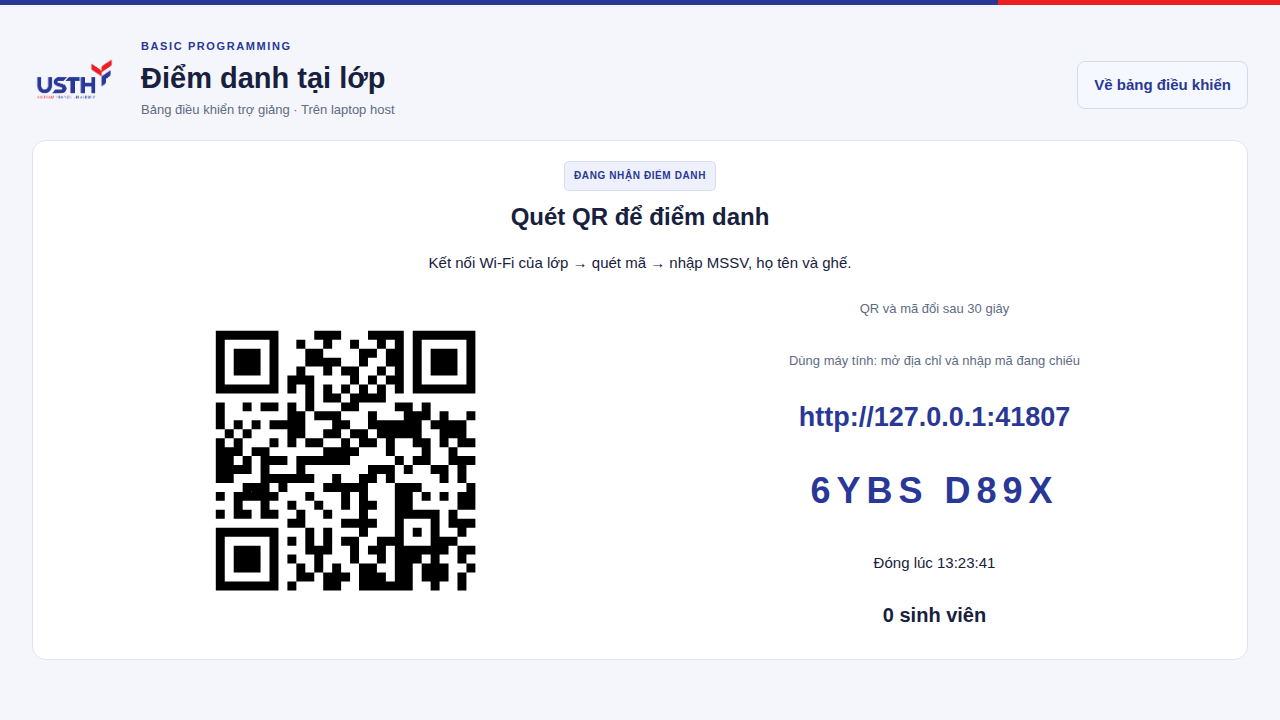
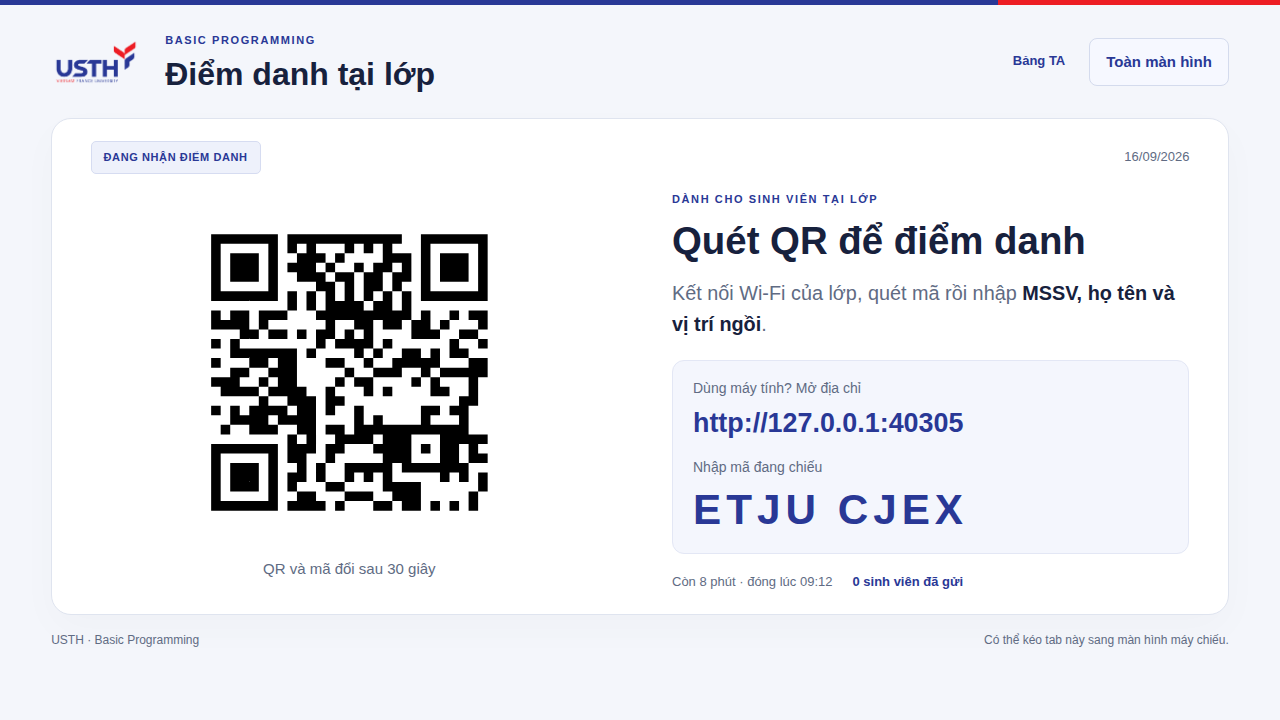
Open attendance QR in an independent fullscreen projection tab

diff --git a/web/lan-public/style.css b/web/lan-public/style.css
@@ -1,5 +1,4 @@
-:root{--blue:#293896;--red:#ed1d24;--ink:#17213d;--muted:#606b83;--line:#dfe4ef;--paper:#f4f6fb}*{box-sizing:border-box}[hidden]{display:none!important}body{margin:0;background:var(--paper);color:var(--ink);font:15px/1.6 -apple-system,BlinkMacSystemFont,"Segoe UI",sans-serif}body:before{content:"";display:block;height:5px;background:linear-gradient(90deg,var(--blue) 0 78%,var(--red) 78%)}main{max-width:1280px;margin:auto;padding:28px 32px}header{display:flex;align-items:center;gap:24px;margin-bottom:26px}header img{width:110px;height:auto}header h1{margin:3px 0;line-height:1.25;font-size:29px}header p{margin:4px 0}header button{margin-left:auto}.eyebrow{color:var(--blue);font-size:11px;font-weight:750;letter-spacing:1.6px}h2{font-size:24px;line-height:1.35;margin:14px 0}p{margin:12px 0}.card{background:white;border:1px solid var(--line);border-radius:14px;padding:26px;margin-bottom:20px}.muted,small,footer{color:var(--muted);font-size:13px}footer{text-align:center;margin:26px 0}.badge{display:inline-block;font-size:10px;font-weight:750;letter-spacing:.6px;border:1px solid #d6dcf1;color:var(--blue);background:#eef1fb;border-radius:5px;padding:6px 9px}.layout{display:grid;grid-template-columns:320px minmax(0,1fr);gap:24px}.section-top,.status-bar,.actions{display:flex;gap:16px;align-items:center;justify-content:space-between;flex-wrap:wrap}.section-top h2{margin-bottom:0}label{display:block;font-weight:600;margin:18px 0 6px}input,select,textarea{font:inherit;width:100%;border:1px solid #bac4db;border-radius:8px;background:white;color:var(--ink);padding:11px 12px}input:focus,select:focus,textarea:focus{outline:3px solid #dce2ff;border-color:var(--blue)}small{display:block;margin-top:7px}button{font:inherit;font-weight:650;border:1px solid var(--blue);border-radius:8px;padding:11px 16px;background:var(--blue);color:white;cursor:pointer;margin:12px 0 0}button:hover{filter:brightness(.94)}button:disabled{opacity:.5;cursor:default}button.secondary{color:var(--blue);background:#f6f8ff;border-color:#d4dbed}button.danger{background:white;border-color:#ecc1c5;color:#ab1422}.layout .controls button{width:100%}a{color:var(--blue);font-weight:600}.actions button{margin:0}.notice{background:#edf1fc;color:var(--blue);padding:12px 16px;border-radius:8px;margin-bottom:16px}.notice:empty{display:none}.error{color:#a81820;background:#fff0f1}.student-page{max-width:610px}.student-page .card{padding:28px}.student-page #submit{width:100%;margin-top:24px}.student-page #reload{width:100%}.student-page header{gap:18px}.student-page header img{width:94px}.student-page h1{font-size:25px}.receipt{border-left:4px solid var(--blue);padding:4px 0 4px 20px}.receipt dl{display:grid;grid-template-columns:100px 1fr;gap:10px}.receipt dt{color:var(--muted)}.receipt dd{margin:0;font-weight:650;overflow-wrap:anywhere}.projector{text-align:center}.projector #qr{max-width:270px;margin:18px auto}.projector svg{display:block;width:100%;height:auto}.student-url{font-size:24px;color:var(--blue);word-break:break-all}.count{display:block;font-size:20px}.table-wrap{overflow:auto}table{width:100%;border-collapse:collapse;text-align:left;font-size:14px}th{font-size:12px;color:var(--muted);background:#f6f8fc;white-space:nowrap}th,td{padding:14px 12px;border-bottom:1px solid var(--line)}td{white-space:pre-line}td button{margin:0;font-size:12px;white-space:nowrap}tr.flagged td{background:#ffcccc;color:#871621}.checkbox{display:flex;align-items:center;font-weight:500;gap:8px}.checkbox input{width:auto}details summary{font-weight:650;cursor:pointer}hr{border:0;border-top:1px solid var(--line);margin:24px 0}dialog{width:min(540px,94vw);border:1px solid var(--line);border-radius:14px;padding:26px;color:var(--ink)}dialog::backdrop{background:#17213d80}.projecting .controls,.projecting footer,.projecting #notice{display:none}.projecting .layout{display:block}.projecting .projector{padding:20px 32px}.projecting .projector #qr{max-width:min(41vh,380px)}.projecting .student-url{font-size:32px}.projecting header{margin-bottom:15px}.projecting header img{width:85px}.projecting h2{margin:10px 0}.projecting .projector p{margin:8px 0}@media(max-width:750px){main{padding:22px 16px}.layout{display:block}header{gap:14px}header img{width:80px}header h1{font-size:23px}.card{padding:20px}.student-page .card{padding:23px}.student-page header img{width:78px}.student-page h1{font-size:22px}.student-url{font-size:20px}.projecting .student-url{font-size:22px}.actions{justify-content:flex-start;gap:12px}.actions a{font-size:13px}}
+:root{--blue:#293896;--red:#ed1d24;--ink:#17213d;--muted:#606b83;--line:#dfe4ef;--paper:#f4f6fb}*{box-sizing:border-box}[hidden]{display:none!important}body{margin:0;background:var(--paper);color:var(--ink);font:15px/1.6 -apple-system,BlinkMacSystemFont,"Segoe UI",sans-serif}body:before{content:"";display:block;height:5px;background:linear-gradient(90deg,var(--blue) 0 78%,var(--red) 78%)}main{max-width:1280px;margin:auto;padding:28px 32px}header{display:flex;align-items:center;gap:24px;margin-bottom:26px}header img{width:110px;height:auto}header h1{margin:3px 0;line-height:1.25;font-size:29px}header p{margin:4px 0}header button{margin-left:auto}.eyebrow{color:var(--blue);font-size:11px;font-weight:750;letter-spacing:1.6px}h2{font-size:24px;line-height:1.35;margin:14px 0}p{margin:12px 0}.card{background:white;border:1px solid var(--line);border-radius:14px;padding:26px;margin-bottom:20px}.muted,small,footer{color:var(--muted);font-size:13px}footer{text-align:center;margin:26px 0}.badge{display:inline-block;font-size:10px;font-weight:750;letter-spacing:.6px;border:1px solid #d6dcf1;color:var(--blue);background:#eef1fb;border-radius:5px;padding:6px 9px}.layout{display:grid;grid-template-columns:320px minmax(0,1fr);gap:24px}.section-top,.status-bar,.actions{display:flex;gap:16px;align-items:center;justify-content:space-between;flex-wrap:wrap}.section-top h2{margin-bottom:0}label{display:block;font-weight:600;margin:18px 0 6px}input,select,textarea{font:inherit;width:100%;border:1px solid #bac4db;border-radius:8px;background:white;color:var(--ink);padding:11px 12px}input:focus,select:focus,textarea:focus{outline:3px solid #dce2ff;border-color:var(--blue)}small{display:block;margin-top:7px}button{font:inherit;font-weight:650;border:1px solid var(--blue);border-radius:8px;padding:11px 16px;background:var(--blue);color:white;cursor:pointer;margin:12px 0 0}button:hover{filter:brightness(.94)}button:disabled{opacity:.5;cursor:default}button.secondary{color:var(--blue);background:#f6f8ff;border-color:#d4dbed}button.danger{background:white;border-color:#ecc1c5;color:#ab1422}.layout .controls button{width:100%}a{color:var(--blue);font-weight:600}.actions button{margin:0}.notice{background:#edf1fc;color:var(--blue);padding:12px 16px;border-radius:8px;margin-bottom:16px}.notice:empty{display:none}.error{color:#a81820;background:#fff0f1}.student-page{max-width:610px}.student-page .card{padding:28px}.student-page #submit{width:100%;margin-top:24px}.student-page #reload{width:100%}.student-page header{gap:18px}.student-page header img{width:94px}.student-page h1{font-size:25px}.receipt{border-left:4px solid var(--blue);padding:4px 0 4px 20px}.receipt dl{display:grid;grid-template-columns:100px 1fr;gap:10px}.receipt dt{color:var(--muted)}.receipt dd{margin:0;font-weight:650;overflow-wrap:anywhere}.projector{text-align:center}.projector #qr{max-width:270px;margin:18px auto}.projector svg{display:block;width:100%;height:auto}.student-url{font-size:24px;color:var(--blue);word-break:break-all}.count{display:block;font-size:20px}.table-wrap{overflow:auto}table{width:100%;border-collapse:collapse;text-align:left;font-size:14px}th{font-size:12px;color:var(--muted);background:#f6f8fc;white-space:nowrap}th,td{padding:14px 12px;border-bottom:1px solid var(--line)}td{white-space:pre-line}td button{margin:0;font-size:12px;white-space:nowrap}tr.flagged td{background:#ffcccc;color:#871621}.checkbox{display:flex;align-items:center;font-weight:500;gap:8px}.checkbox input{width:auto}details summary{font-weight:650;cursor:pointer}hr{border:0;border-top:1px solid var(--line);margin:24px 0}dialog{width:min(540px,94vw);border:1px solid var(--line);border-radius:14px;padding:26px;color:var(--ink)}dialog::backdrop{background:#17213d80}@media(max-width:750px){main{padding:22px 16px}.layout{display:block}header{gap:14px}header img{width:80px}header h1{font-size:23px}.card{padding:20px}.student-page .card{padding:23px}.student-page header img{width:78px}.student-page h1{font-size:22px}.student-url{font-size:20px}.actions{justify-content:flex-start;gap:12px}.actions a{font-size:13px}}
 .screen-nav{display:flex;gap:8px;margin:0 0 20px;flex-wrap:wrap}.screen-nav a{text-decoration:none;border:1px solid var(--line);border-radius:8px;background:white;padding:10px 16px}.screen-nav a[aria-current="page"]{color:white;background:var(--blue);border-color:var(--blue)}.filters{display:flex;gap:18px;align-items:flex-end;flex-wrap:wrap;margin:20px 0}.filters>div:first-child{min-width:210px}.filters label{margin-top:0}.button-link{display:inline-block;border:1px solid var(--blue);border-radius:8px;padding:10px 15px;text-decoration:none;background:var(--blue);color:white}.button-link.secondary{color:var(--blue);background:#f6f8ff;border-color:#d4dbed}.button-link[aria-disabled="true"]{opacity:.5;pointer-events:none}.review-totals{display:flex;gap:12px;flex-wrap:wrap;margin:22px 0}.rejected-badge{color:#a81820;background:#fff0f1;border-color:#ecc1c5}tr.rejected td{color:#8b1420;background:#fff0f1}tr.rejected td:first-child{border-left:3px solid var(--red)}#screen-history td:nth-child(6),#screen-issues td:nth-child(6){min-width:190px;max-width:310px;overflow-wrap:anywhere}.screen-nav a:focus-visible,.button-link:focus-visible{outline:3px solid #98a6ed;outline-offset:3px}@media(max-width:750px){.screen-nav{gap:6px}.screen-nav a{padding:9px 11px;font-size:13px}.filters>div{width:100%}.filters .actions{align-items:stretch}.button-link{font-size:13px}}
 
-.attendance-code{display:block;font-size:32px;letter-spacing:6px;color:var(--blue);font-variant-numeric:tabular-nums;margin:8px auto}.projecting .attendance-code{font-size:36px}#room-code{font-size:23px;letter-spacing:4px;text-transform:uppercase}#scan-form button{width:100%}.network-option{display:block;width:100%;text-align:left}.network-option small{color:inherit}
-@media(min-width:751px){.projecting .projector{display:grid;grid-template-columns:minmax(280px,1fr) minmax(330px,1fr);column-gap:28px;align-items:center}.projecting .projector>.badge,.projecting .projector>h2,.projecting .projector>p:first-of-type{grid-column:1/-1;justify-self:center}.projecting .projector #qr{grid-column:1;grid-row:4/10;width:100%;max-width:min(46vh,420px);margin:12px auto}.projecting #qr-countdown{grid-area:4/2}.projecting .projector>p:nth-of-type(3){grid-area:5/2}.projecting #student-url{grid-area:6/2;font-size:27px}.projecting #attendance-code{grid-area:7/2}.projecting #session-end{grid-area:8/2}.projecting #count{grid-area:9/2}}
+.attendance-code{display:block;font-size:32px;letter-spacing:6px;color:var(--blue);font-variant-numeric:tabular-nums;margin:8px auto}#room-code{font-size:23px;letter-spacing:4px;text-transform:uppercase}#scan-form button{width:100%}.network-option{display:block;width:100%;text-align:left}.network-option small{color:inherit}

diff --git a/web/lan-public/admin.js b/web/lan-public/admin.js
@@ -2,6 +2,7 @@
 const $=id=>document.getElementById(id);
 let dashboard,selected='',entries=[],reviewing,busy=false,refreshQueued=false,loadedURL='',screen='attendance';
 let currentQr,qrBusy=false,qrAt=0;
+let projectorWindow;
 function drawQr(){
   const remaining=currentQr?currentQr.expiresAt-currentQr.serverTime-(performance.now()-qrAt):0;
   if(remaining<=0){$('qr').replaceChildren();$('attendance-code').textContent='';$('qr-countdown').textContent=currentQr?'Đang đổi QR…':'';loadedURL='';return;}
@@ -25,9 +26,15 @@ function showScreen(){
   const next=location.hash.slice(1);screen=['attendance','history','issues'].includes(next)?next:'attendance';
   for(const panel of document.querySelectorAll('[data-screen]'))panel.hidden=panel.dataset.screen!==screen;
   for(const link of document.querySelectorAll('.screen-nav a')){if(link.hash==='#'+screen)link.setAttribute('aria-current','page');else link.removeAttribute('aria-current');}
-  if(screen!=='attendance'){document.body.classList.remove('projecting');$('exit-project').hidden=true;}
 }
-function project(){location.hash='attendance';showScreen();document.body.classList.add('projecting');$('exit-project').hidden=false;window.scrollTo(0,0);}
+function project(){
+  if(projectorWindow&&!projectorWindow.closed){projectorWindow.focus();return true;}
+  projectorWindow=window.open('/projector/','bp-attendance-projector');
+  if(projectorWindow){projectorWindow.focus();return true;}
+  notice('Trình duyệt đang chặn tab mới.');
+  const link=document.createElement('a');link.href='/projector/';link.target='_blank';link.rel='noopener';link.textContent='Mở tab chiếu QR';$('notice').append(' ',link);
+  return false;
+}
 function openReview(entry){
   reviewing=entry;$('review-title').textContent=entry.student_id+' · '+entry.name;
   $('review-detail').textContent=entry.date+' · Ghế: '+entry.seat+' · IP: '+entry.ip+' · '+entry.peers+' MSSV';
@@ -97,9 +104,14 @@ async function refresh(){
 }
 async function action(fn){if(busy)return;busy=true;try{await fn();await refresh();}catch(error){notice(error.message,true);}finally{busy=false;if(refreshQueued){refreshQueued=false;requestRefresh();}}}
 function requestRefresh(){markLoading();if(busy){refreshQueued=true;return;}void action(async()=>{});}
-$('open').addEventListener('click',()=>action(async()=>{const result=await api('/api/sessions',{minutes:Number($('minutes').value)});selected=result.session.id;await refresh();notice('Đã mở điểm danh.');project();}));
+$('open').addEventListener('click',()=>{
+  if(busy)return;
+  // Open during the click gesture, before any await, so browsers allow the tab.
+  const opened=project();
+  void action(async()=>{const result=await api('/api/sessions',{minutes:Number($('minutes').value)});selected=result.session.id;if(opened)notice('Đã mở điểm danh. Tab chiếu QR cập nhật tự động.');});
+});
 $('close').addEventListener('click',()=>action(async()=>{await api('/api/sessions/'+selected+'/close',{});notice('Đã đóng phiên điểm danh.');}));
-$('project').addEventListener('click',project);$('exit-project').addEventListener('click',()=>{document.body.classList.remove('projecting');$('exit-project').hidden=true;});
+$('project').addEventListener('click',project);
 $('session').addEventListener('change',()=>{selected=$('session').value;requestRefresh();});$('only-pending').addEventListener('change',renderEntries);
 for(const id of ['history-date','issues-date','issues-status'])$(id).addEventListener('change',requestRefresh);
 window.addEventListener('hashchange',()=>{showScreen();requestRefresh();});

diff --git a/web/projector/style.css b/web/projector/style.css
@@ -1,0 +1,32 @@
+.projection-page{min-height:100vh;background:var(--paper)}
+.projection-page main{max-width:1600px;padding:clamp(16px,3vh,36px) clamp(24px,4vw,64px)}
+.projection-page header{margin-bottom:clamp(16px,3vh,30px)}
+.projection-page header img{width:90px}
+.projection-page header h1{font-size:clamp(24px,2.5vw,36px)}
+.projection-actions{margin-left:auto;display:flex;align-items:center;gap:24px}
+.projection-actions button{margin:0;white-space:nowrap}
+.projection-actions a{font-size:13px;text-decoration:none}
+.projection-card{background:#fff;border:1px solid var(--line);border-radius:20px;padding:clamp(20px,3vh,38px) clamp(20px,3vw,44px);box-shadow:0 14px 40px #17213d06}
+.projection-heading{display:flex;justify-content:space-between;gap:16px;align-items:center;margin-bottom:12px}
+.projection-heading .badge{font-size:11px;padding:7px 12px}
+.projection-content{display:grid;grid-template-columns:minmax(0,1fr) minmax(0,1fr);align-items:center;gap:clamp(24px,5vw,80px)}
+.qr-column{text-align:center;min-width:0}
+.qr-stage{width:min(100%,49vh,500px);aspect-ratio:1;margin:auto;display:grid;align-items:center;justify-items:center;background:white}
+#qr{width:100%;grid-area:1/1}
+#qr svg{width:100%;height:auto;display:block}
+#qr-placeholder{grid-area:1/1;margin:0;padding:28px;font-size:24px;color:var(--muted)}
+#qr-countdown{min-height:26px;font-size:15px;color:var(--muted);margin:8px 0 0;font-variant-numeric:tabular-nums}
+.projection-instructions{min-width:0}
+.projection-instructions h2{font-size:clamp(26px,3vw,44px);margin:8px 0 14px;line-height:1.2}
+.scan-instructions{font-size:clamp(16px,1.55vw,22px);color:var(--muted);line-height:1.55;margin:0 0 20px}
+.scan-instructions strong{color:var(--ink);font-weight:600}
+.manual-entry{padding:16px 20px;background:#f4f6fd;border:1px solid #e3e7f5;border-radius:12px}
+.manual-entry p{font-size:14px;color:var(--muted);margin:0 0 6px}
+.manual-entry .student-url{display:block;font-size:clamp(19px,2.1vw,30px);line-height:1.35;margin:0 0 14px;overflow-wrap:anywhere;word-break:normal}
+.manual-entry .attendance-code{font-size:clamp(30px,3.3vw,48px);line-height:1.25;letter-spacing:5px;margin:0;min-height:1.25em;white-space:nowrap}
+.session-meta{display:flex;flex-wrap:wrap;gap:6px 20px;font-size:13px;margin-top:18px;color:var(--muted)}
+.session-meta strong{color:var(--blue)}
+.projection-page footer{display:flex;justify-content:space-between;gap:12px;margin:16px 0 0;font-size:12px;text-align:left}
+.projection-page:fullscreen{overflow:auto}
+@media(min-width:851px) and (max-height:700px){.projection-page main{padding:14px 32px}.projection-page header{margin-bottom:14px}.projection-page header img{width:72px}.projection-card{padding:16px 24px}.projection-instructions h2{font-size:30px}.scan-instructions{font-size:16px;margin-bottom:12px}.manual-entry{padding:12px 16px}.manual-entry .attendance-code{font-size:34px}.manual-entry .student-url{font-size:23px;margin-bottom:8px}.session-meta{margin-top:10px}}
+@media(max-width:850px){.projection-page main{padding:18px}.projection-page header{flex-wrap:wrap;gap:14px}.projection-page header img{width:72px}.projection-actions{width:100%;justify-content:flex-end;gap:20px}.projection-content{grid-template-columns:1fr;gap:22px}.qr-stage{width:min(100%,360px)}.projection-instructions h2{font-size:30px}.projection-page footer{flex-direction:column}.manual-entry .attendance-code{font-size:36px}}

diff --git a/web/projector/projector.js b/web/projector/projector.js
@@ -1,0 +1,46 @@
+'use strict';
+const $=id=>document.getElementById(id);
+let state,requestedAt=0,busy=false,loadedURL='',unavailable=false;
+function draw(){
+  const at=state?state.serverTime+performance.now()-requestedAt:0;
+  const session=state?.session,open=session?.open&&session.endsAt>at;
+  const qr=state?.qr,valid=!unavailable&&open&&qr&&qr.expiresAt>at;
+  $('session-state').textContent=unavailable?'MẤT KẾT NỐI':!state?'ĐANG KẾT NỐI':open?'ĐANG NHẬN ĐIỂM DANH':session?'PHIÊN ĐÃ ĐÓNG':'CHƯA MỞ PHIÊN';
+  $('session-date').textContent=session?session.date.split('-').reverse().join('/') : '';
+  $('student-url').textContent=state?.url||'';
+  $('count').textContent=session?session.count+' sinh viên đã gửi':'';
+  $('session-end').textContent=open?'Còn '+Math.ceil((session.endsAt-at)/60000)+' phút · đóng lúc '+new Date(session.endsAt).toLocaleTimeString('vi-VN',{timeZone:'Asia/Ho_Chi_Minh',hour:'2-digit',minute:'2-digit'}):'';
+  $('qr-placeholder').hidden=!!valid;
+  if(!valid){
+    $('qr').replaceChildren();loadedURL='';$('attendance-code').textContent='';$('qr-countdown').textContent='';
+    $('qr-placeholder').textContent=unavailable?'Chưa kết nối được máy host. Đang thử lại…':!state?'Đang kết nối máy host…':open?'Đang đổi QR…':session?'Đã kết thúc điểm danh.':'Chờ TA mở phiên điểm danh.';
+    return;
+  }
+  if(loadedURL!==qr.url){const code=qrcode(0,'M');code.addData(qr.url);code.make();$('qr').innerHTML=code.createSvgTag({cellSize:8,margin:32,scalable:true});loadedURL=qr.url;}
+  $('attendance-code').textContent=qr.code.slice(0,4)+' '+qr.code.slice(4);
+  $('qr-countdown').textContent='QR và mã đổi sau '+Math.ceil((qr.expiresAt-at)/1000)+' giây';
+}
+async function refresh(){
+  if(busy)return;busy=true;
+  const started=performance.now();
+  try{
+    const response=await fetch('/api/projector',{cache:'no-store',signal:AbortSignal.timeout(4000)});
+    if(!response.ok)throw Error('PROJECTOR_UNAVAILABLE');
+    state=await response.json();requestedAt=started;unavailable=false;
+  }catch{unavailable=true;}
+  finally{busy=false;draw();}
+}
+function fullscreenState(){
+  $('fullscreen').textContent=document.fullscreenElement?'Thoát toàn màn hình':'Toàn màn hình';
+  $('fullscreen-hint').textContent=document.fullscreenElement?'Nhấn Esc để thoát toàn màn hình.':'Có thể kéo tab này sang màn hình máy chiếu.';
+}
+$('fullscreen').addEventListener('click',async()=>{
+  try{
+    if(document.fullscreenElement)await document.exitFullscreen();
+    else if(document.documentElement.requestFullscreen)await document.documentElement.requestFullscreen();
+    else throw Error('FULLSCREEN_UNAVAILABLE');
+  }catch{$('fullscreen-hint').textContent='Chọn toàn màn hình trong menu trình duyệt (F11 trên Windows/Linux).';}
+});
+document.addEventListener('fullscreenchange',fullscreenState);
+document.addEventListener('visibilitychange',()=>{draw();if(!document.hidden)void refresh();});
+draw();void refresh();setInterval(()=>void refresh(),1000);setInterval(draw,250);

diff --git a/web/projector/index.html b/web/projector/index.html
@@ -1,0 +1,34 @@
+<!doctype html>
+<html lang="vi">
+<head>
+  <meta charset="utf-8">
+  <meta name="viewport" content="width=device-width,initial-scale=1">
+  <title>Chiếu QR · Basic Programming · USTH</title>
+  <link rel="stylesheet" href="/style.css">
+  <link rel="stylesheet" href="/projector/style.css">
+  <script src="/qr.js" defer></script>
+  <script src="/projector/projector.js" defer></script>
+</head>
+<body class="projection-page">
+  <main>
+    <header>
+      <img src="/assets/usth-logo.png" alt="USTH — Vietnam France University">
+      <div><span class="eyebrow">BASIC PROGRAMMING</span><h1>Điểm danh tại lớp</h1></div>
+      <div class="projection-actions"><a href="/" target="_blank" rel="noopener">Bảng TA</a><button id="fullscreen" class="secondary" type="button">Toàn màn hình</button></div>
+    </header>
+    <section class="projection-card" aria-label="QR điểm danh">
+      <div class="projection-heading"><span id="session-state" class="badge">ĐANG KẾT NỐI</span><span id="session-date" class="muted"></span></div>
+      <div class="projection-content">
+        <div class="qr-column"><div class="qr-stage"><div id="qr"></div><p id="qr-placeholder" role="status">Đang kết nối máy host…</p></div><p id="qr-countdown" aria-live="off"></p></div>
+        <div class="projection-instructions">
+          <span class="eyebrow">DÀNH CHO SINH VIÊN TẠI LỚP</span><h2>Quét QR để điểm danh</h2>
+          <p class="scan-instructions">Kết nối Wi-Fi của lớp, quét mã rồi nhập <strong>MSSV, họ tên và vị trí ngồi</strong>.</p>
+          <div class="manual-entry"><p>Dùng máy tính? Mở địa chỉ</p><strong id="student-url" class="student-url"></strong><p>Nhập mã đang chiếu</p><strong id="attendance-code" class="attendance-code"></strong></div>
+          <div class="session-meta"><span id="session-end"></span><strong id="count"></strong></div>
+        </div>
+      </div>
+    </section>
+    <footer><span>USTH · Basic Programming</span><span id="fullscreen-hint" role="status">Có thể kéo tab này sang màn hình máy chiếu.</span></footer>
+  </main>
+</body>
+</html>

diff --git a/web/lan-public/admin.html b/web/lan-public/admin.html
@@ -1,5 +1,5 @@
 <!doctype html><html lang="vi"><head><meta charset="utf-8"><meta name="viewport" content="width=device-width,initial-scale=1"><title>TA · BP Attendance · USTH</title><link rel="stylesheet" href="/style.css"><script src="/qr.js" defer></script><script src="/admin.js" defer></script></head>
-<body><main><header><img src="/assets/usth-logo.png" alt="USTH — Vietnam France University"><div><span class="eyebrow">BASIC PROGRAMMING</span><h1>Điểm danh tại lớp</h1><p class="muted">Bảng điều khiển trợ giảng · Trên laptop host</p></div><button id="exit-project" class="secondary" hidden>Về bảng điều khiển</button></header>
+<body><main><header><img src="/assets/usth-logo.png" alt="USTH — Vietnam France University"><div><span class="eyebrow">BASIC PROGRAMMING</span><h1>Điểm danh tại lớp</h1><p class="muted">Bảng điều khiển trợ giảng · Trên laptop host</p></div></header>
 <div id="notice" role="status" aria-live="polite"></div>
 <nav class="screen-nav controls" aria-label="Quản lý điểm danh"><a href="#attendance" aria-current="page">Điểm danh tại lớp</a><a href="#history">Lịch sử &amp; xuất dữ liệu</a><a href="#issues">Cần xử lý</a></nav>
 <div class="controls card status-bar"><div><strong id="sync-state">Đang kết nối…</strong><p id="network" class="muted"></p></div><div class="actions"><button id="sync" class="secondary">Đồng bộ Sheet</button><a href="#history">Xuất dữ liệu theo ngày / toàn bộ</a></div></div>

diff --git a/docs/TA-GUIDE.vi.md b/docs/TA-GUIDE.vi.md
@@ -4,11 +4,13 @@
 
 Người host chạy `npm start` trên Windows, macOS hoặc Linux. App tự chuẩn bị dữ liệu và mở trình duyệt. Nếu hiện trang chọn mạng, bấm Wi-Fi đang dùng trong phòng. Trang TA tại **http://127.0.0.1:4181** chỉ mở trên laptop host. Giữ cửa sổ chạy app mở trong giờ học.
 
-Kiểm tra đúng ngày, thống nhất cách ghi ghế (ví dụ hàng B, ghế 12), chọn thời gian rồi bấm **Mở QR điểm danh**. Mặc định 8 phút. App chuyển sang màn chiếu, có QR và URL cho sinh viên dùng máy tính.
+Kiểm tra đúng ngày, thống nhất cách ghi ghế (ví dụ hàng B, ghế 12), chọn thời gian rồi bấm **Mở QR điểm danh**. Mặc định 8 phút. App mở **tab chiếu QR riêng**, giữ nguyên bảng TA để theo dõi và đối chiếu sinh viên. Nếu đã mở phiên, bấm **Chiếu QR** để quay lại tab chiếu hoặc mở lại tab đã đóng.
+
+Trên tab chiếu, bấm **Toàn màn hình** ở góc trên bên phải; nhấn **Esc** hoặc **Thoát toàn màn hình** để thoát. Có thể kéo tab sang màn hình máy chiếu nếu laptop dùng chế độ mở rộng màn hình. Nếu trình duyệt chặn tab mới, bấm liên kết **Mở tab chiếu QR** trên bảng TA. Nếu trình duyệt không cho bật toàn màn hình bằng nút, dùng menu trình duyệt hoặc F11 trên Windows/Linux.
 
 ![Màn chiếu](web-projector.png)
 
-**QR và mã 8 ký tự đổi mỗi 30 giây**, có đồng hồ đếm ngược. Mã cũ hết hiệu lực ngay khi đổi. Chỉ màn TA trên laptop lấy được mã hiện tại; trang sinh viên không tự lấy mã mới. Giữ màn chiếu mở trong thời gian điểm danh. Nếu máy host đổi IP, dừng app bằng Ctrl+C rồi chạy lại và chiếu QR mới.
+**QR và mã 8 ký tự đổi mỗi 30 giây**, có đồng hồ đếm ngược. Mã cũ hết hiệu lực ngay khi đổi. Tab chiếu tự cập nhật, kể cả khi chuyển sang hoặc đóng tab bảng TA; cửa sổ Terminal chạy app vẫn phải mở. Khi phiên đóng/hết giờ hoặc tab chiếu không kết nối được máy host, mã được ẩn. Trang chiếu chỉ có QR, URL, thời gian và tổng số lượt gửi; không hiển thị MSSV, họ tên hoặc IP sinh viên. Chỉ các trang trên cổng TA của laptop lấy được mã hiện tại; trang sinh viên không tự lấy mã mới. Nếu máy host đổi IP, dừng app bằng Ctrl+C rồi chạy lại và chiếu QR mới.
 
 ## 2. Sinh viên gửi thông tin
 
@@ -31,7 +33,7 @@ Sai họ tên/ghế/MSSV sau khi đã gửi: báo TA để đối chiếu và gh
 
 ## 3. Đối chiếu các dòng đỏ
 
-Bấm **Về bảng điều khiển**. Bảng tự cập nhật mỗi 10 giây. Bật **Chỉ hiện cần xác nhận** nếu muốn lọc.
+Chuyển về **tab bảng TA** đang mở. Nếu đã đóng tab đó, bấm **Bảng TA** trên tab chiếu để mở lại. Bảng tự cập nhật mỗi 10 giây. Bật **Chỉ hiện cần xác nhận** nếu muốn lọc. Việc xem và đối chiếu trên bảng TA không đổi nội dung tab chiếu.
 
 ![Cả hai sinh viên cùng IP được tô đỏ](web-admin.png)
 

diff --git a/docs/WEB-VALIDATION.md b/docs/WEB-VALIDATION.md
@@ -13,6 +13,8 @@ BP_BENCH_COUNTS=700 node scripts/bench-web.cjs data/reports/load-lan.json
 
 Validation run on Linux on 2026-09-09: **62 tests passed, 0 failed, 0 skipped**, plus the browser scenario and syntax check.
 
+Revalidated on Linux on 2026-09-16 for the independent QR projection tab: **62/62 tests passed**, syntax check and the Chromium browser scenario passed. Opening attendance creates a separate projection tab while the original TA controls remain visible; the projection fits 1280×720, enters/exits native fullscreen and continues rotating codes after the TA tab closes. Browser checks also cover reusing the projection tab, live attendance counts, hiding QR/code on connection failure, automatic recovery and hiding the code after session closure. The projector page/assets and its read-only API are served only by the localhost TA listener; student-listener access is tested to return 404. Projection responses contain the current code and aggregate count, without student records or a CSRF token. The updated projection screenshot uses an isolated fixture database.
+
 LAN-specific checks cover:
 
 - Exact per-session MSSV deduplication, normalized socket IPs, both first and subsequent IP peers flagged, separation between weeks.

diff --git a/docs/HOST-QUICKSTART.vi.md b/docs/HOST-QUICKSTART.vi.md
@@ -18,6 +18,8 @@ Trình duyệt mở trang TA trên laptop. Nếu app chưa xác định được
 
 Trang TA: **http://127.0.0.1:4181**. Sinh viên dùng URL IP Wi-Fi cổng 4180 được chiếu. Bấm **Mở QR điểm danh** khi bắt đầu nhận; app không tự mở phiên ngay lúc khởi động.
 
+QR mở trong tab chiếu riêng. Bấm **Toàn màn hình** trên tab đó; Esc để thoát. Tab bảng TA vẫn giữ danh sách sinh viên để theo dõi và đối chiếu. Bấm **Chiếu QR** để mở lại tab chiếu; có thể kéo tab sang màn hình máy chiếu. Giữ Terminal chạy app mở trong suốt buổi.
+
 **Giữ terminal mở, cắm sạc và giữ laptop thức. Ctrl+C để dừng.** Luồng mặc định chạy trực tiếp, không tự chạy khi đăng nhập hoặc tự khởi động lại nếu tiến trình lỗi. Thông báo lỗi nằm trong cửa sổ đang chạy.
 
 ## Mỗi buổi học
